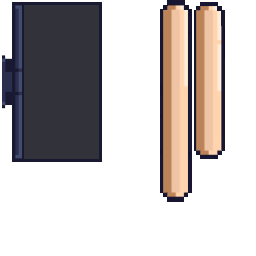
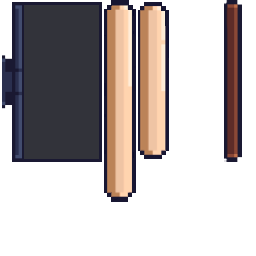
Additional Platforms
Added in additional platforms via wall shelves.

diff --git a/scripts/objRefTable.js b/scripts/objRefTable.js
@@ -27,24 +27,28 @@ self.C3_JsPropNameTable = [
 	{Jumpthru: 0},
 	{TVStand: 0},
 	{Solid: 0},
-	{TiledBackground: 0},
+	{Ground: 0},
 	{TV: 0},
 	{Keyboard: 0},
 	{Bookshelf: 0},
 	{CatTower1: 0},
 	{CatTower2: 0},
-	{CatTower3: 0}
+	{CatTower3: 0},
+	{Table: 0},
+	{Shelf: 0}
 ];
 
 self.InstanceType = {
 	Marshall: class extends self.ISpriteInstance {},
 	Wall: class extends self.ITilemapInstance {},
 	TVStand: class extends self.ITiledBackgroundInstance {},
-	TiledBackground: class extends self.ITiledBackgroundInstance {},
+	Ground: class extends self.ITiledBackgroundInstance {},
 	TV: class extends self.ISpriteInstance {},
 	Keyboard: class extends self.IInstance {},
 	Bookshelf: class extends self.ISpriteInstance {},
 	CatTower1: class extends self.ISpriteInstance {},
 	CatTower2: class extends self.ISpriteInstance {},
-	CatTower3: class extends self.ISpriteInstance {}
+	CatTower3: class extends self.ISpriteInstance {},
+	Table: class extends self.ISpriteInstance {},
+	Shelf: class extends self.ISpriteInstance {}
 }
